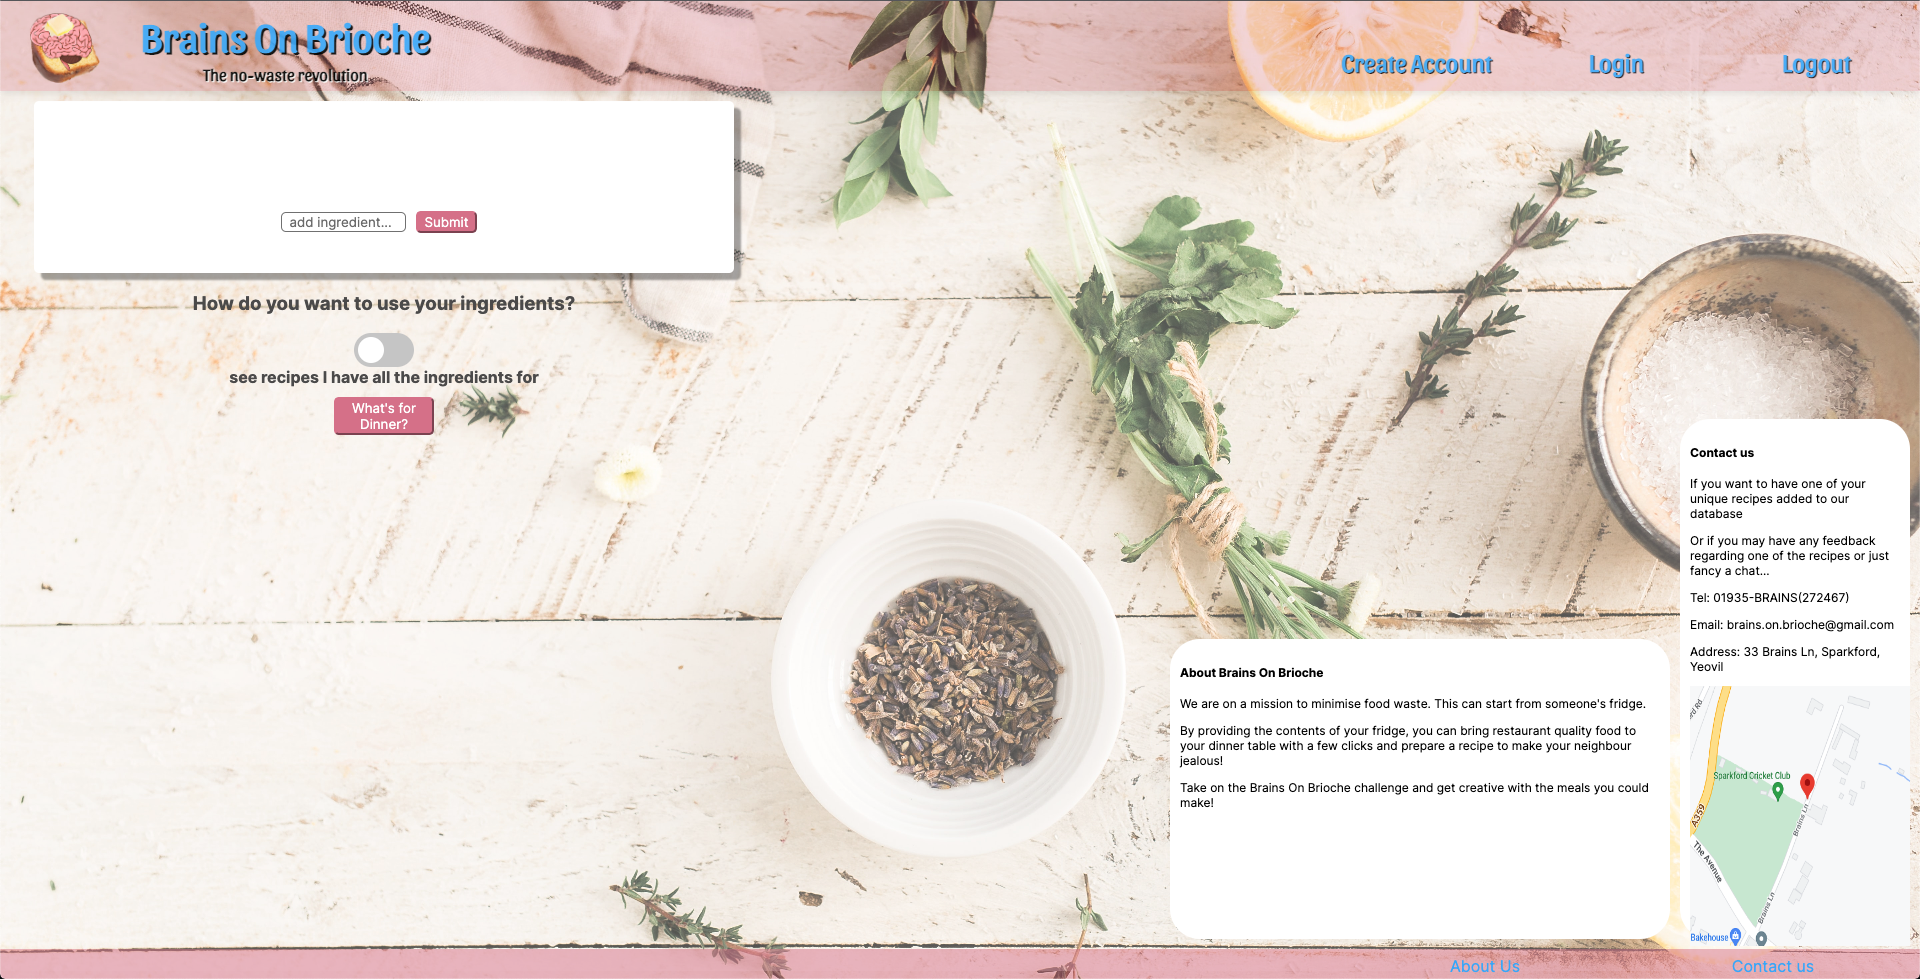
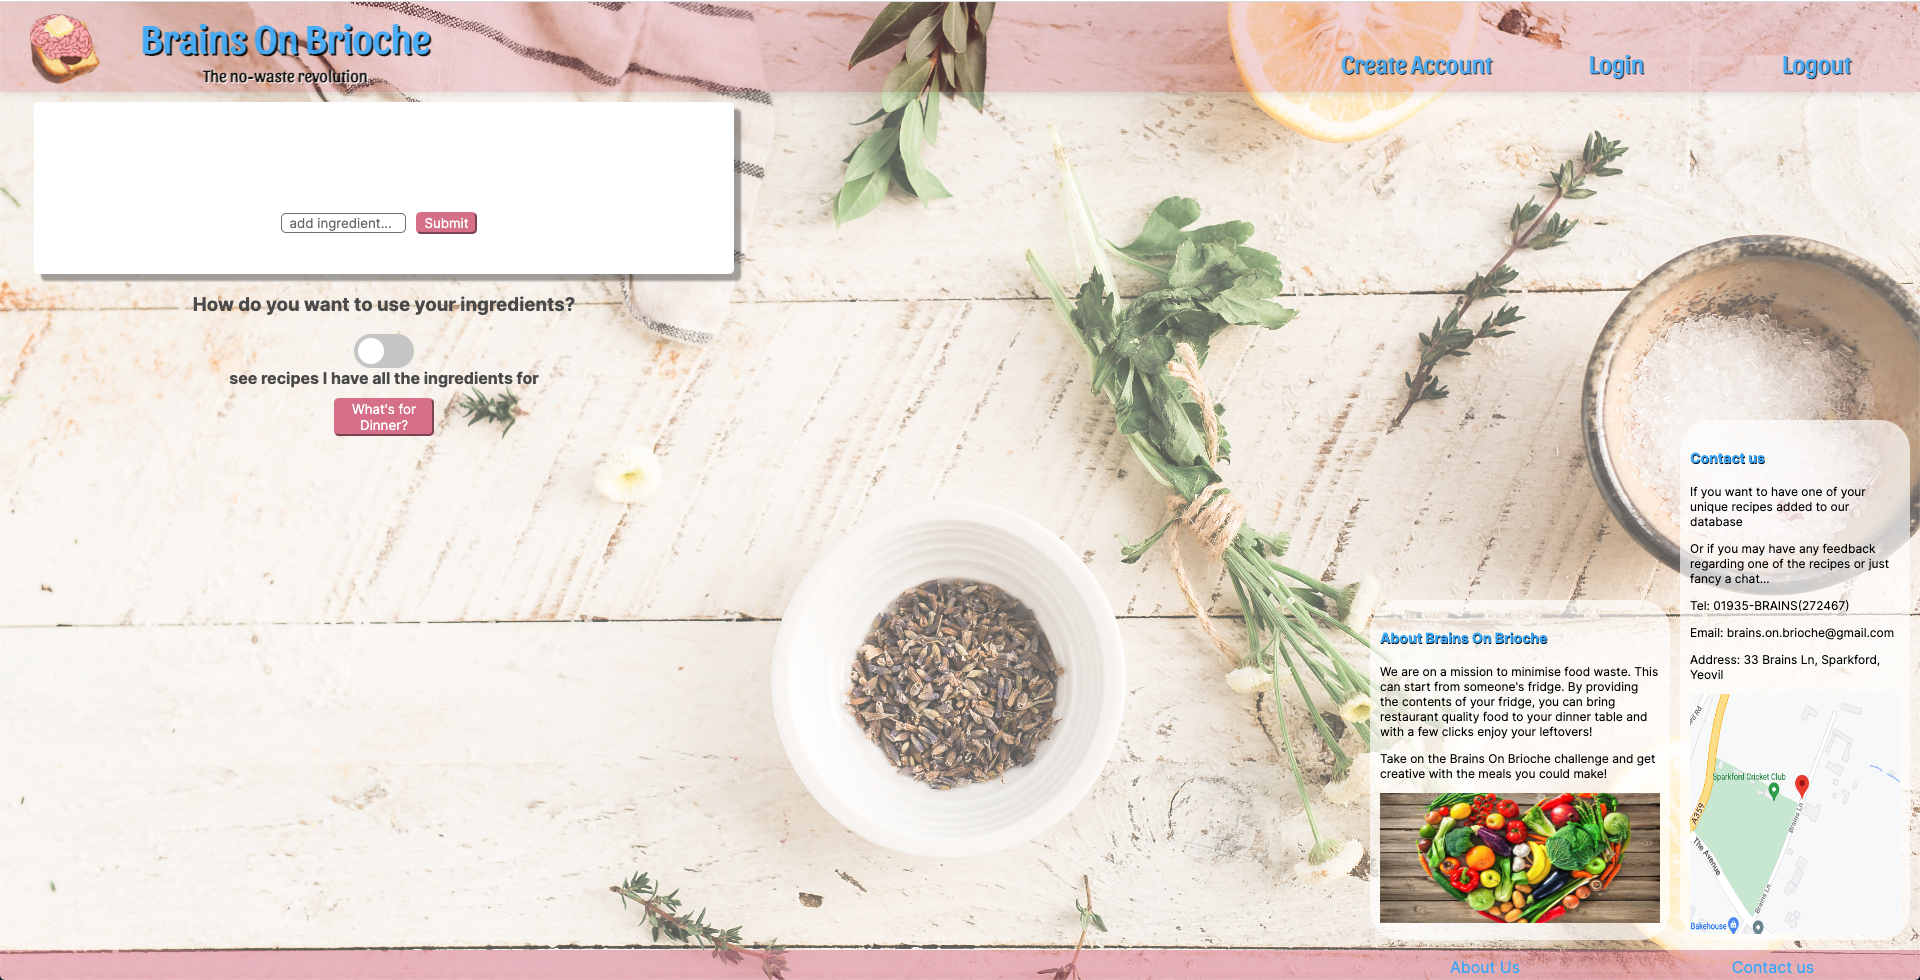
Styling of about us and contact us update

diff --git a/client/src/style.css b/client/src/style.css
@@ -290,9 +290,6 @@ nav {
   overflow-x: hidden;
   overflow-y: scroll;
   text-align: left;
-
-  
-
 }
 
 .fridge--item-tile {
@@ -364,9 +361,6 @@ nav {
 
 /*-------------- meal tiles --------------*/
 
-
-
-
 /* meals-container contains meal-cards */
 
 .meal-card {
@@ -382,8 +376,7 @@ nav {
   font-family: 'Inter', 'Arial Narrow', Arial, sans-serif;
 }
 
-/* e
-ach meal-card contains meal-card--image and ingredient-info*/
+/* each meal-card contains meal-card--image and ingredient-info*/
 
 .meal-card--image {
   width: 225px;
@@ -493,7 +486,6 @@ ach meal-card contains meal-card--image and ingredient-info*/
 
 .search-container {
   width: 100%;
-
 }
 
 /* delete me, I mess things up */
@@ -704,8 +696,6 @@ ach meal-card contains meal-card--image and ingredient-info*/
     /* background-color: white; */
   }
   
-
-
 .drop-down-header {
   display: flex;
   width: 200px;
@@ -767,7 +757,6 @@ ach meal-card contains meal-card--image and ingredient-info*/
 }
 
 .sign-up-button {
-  
   width: 100%;
   display: flex;
   flex-direction: column;
@@ -808,7 +797,6 @@ ach meal-card contains meal-card--image and ingredient-info*/
   justify-content: space-around;
   /* background-color: white; */
   width: 30vw;
-
 }
 
 .footer-links {
@@ -827,13 +815,19 @@ ach meal-card contains meal-card--image and ingredient-info*/
     padding: 10px;
     /* display: block; */
     font-size: 12px;
-    height: 300px;
-    width: 500px;
+    height: 340px;
+    width: 300px;
     bottom: 40px;
     right: 250px;
     z-index: 1;
-    background-color: rgba(255, 255, 255);
+    background-color: rgba(255, 255, 255, 0.661);
     color: black;
+}
+
+.footer-title {
+  color: #3faffa;
+  font-size: 14px;
+  text-shadow: 0.5px 0.5px black;
 }
 
 .contact-us-drop-up {
@@ -854,8 +848,6 @@ ach meal-card contains meal-card--image and ingredient-info*/
   width: 0;
   height: 0;
 }
-
-
 
 .slider {
   position: absolute;

diff --git a/client/src/components/AboutUs.js b/client/src/components/AboutUs.js
@@ -14,10 +14,10 @@ export default function AboutUs() {
       </div>
         {isOpen && (
           <div className="about-us-drop-up">
-            <h4>About Brains On Brioche</h4>
-            <p>We are on a mission to minimise food waste. This can start from someone's fridge.</p>
-            <p>By providing the contents of your fridge, you can bring restaurant quality food to your dinner table with a few clicks and prepare a recipe to make your neighbour jealous!</p>
+            <h4 className="footer-title">About Brains On Brioche</h4>
+            <p>We are on a mission to minimise food waste. This can start from someone's fridge. By providing the contents of your fridge, you can bring restaurant quality food to your dinner table and with a few clicks enjoy your leftovers!</p>
             <p>Take on the Brains On Brioche challenge and get creative with the meals you could make!</p>
+            <img src="./food.jpg" alt="aboout-us-food" width="280" height="130"></img>
           </div>
         )}
     </div>

diff --git a/client/src/components/ContactUs.js b/client/src/components/ContactUs.js
@@ -14,13 +14,13 @@ export default function ContactUs() {
       </div>
         {isOpen && (
           <div className="contact-us-drop-up">
-            <h4>Contact us</h4>
+            <h4 className="footer-title">Contact us</h4>
             <p>If you want to have one of your unique recipes added to our database</p>
             <p>Or if you may have any feedback regarding one of the recipes or just fancy a chat...</p>
             <p>Tel: 01935-BRAINS(272467)</p>
             <p>Email: brains.on.brioche@gmail.com</p>
             <p>Address: 33 Brains Ln, Sparkford, Yeovil</p>
-            <img src="./Brains-Lane.png" alt="google-map" width="220" height="260"></img>
+            <img src="./Brains-Lane.png" alt="google-map" width="210" height="240"></img>
           </div>
         )}
     </div>

diff --git a/README.md b/README.md
@@ -46,7 +46,7 @@ In conclusion, all members of our team we are extremely happy with our effort in
 ![fridge-search](client/public/lucy-fridge-recipe.png)
 ### Lucy searches for recipes using more than the fridge contents
 ![fridge-extend](client/public/lucy-fridge-recipe-extend.png)
-### Contact us / About us footer dropdown(up) menus
+### About us / Contact us footer dropdown(up) menus
 ![contact-about](client/public/contact-about.png)
 
 
